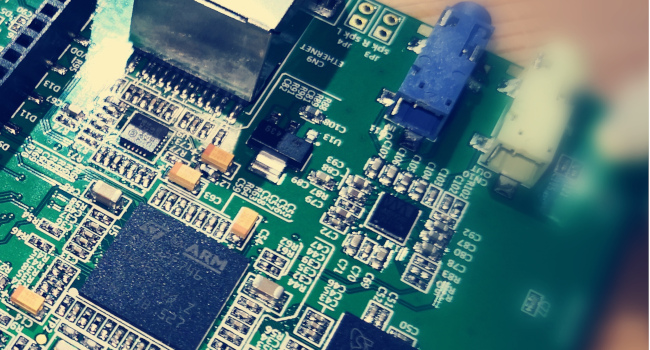
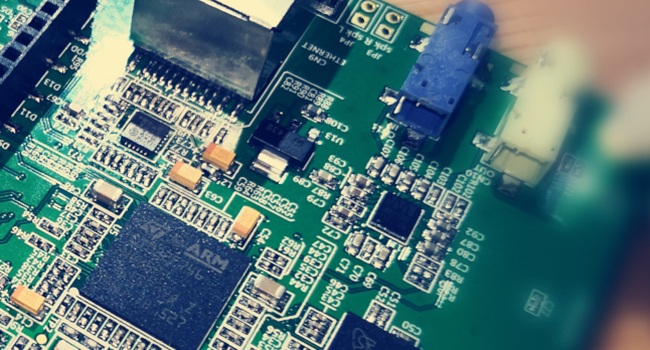
2026 update

diff --git a/index.html b/index.html
@@ -93,10 +93,8 @@
           <hr>
         </div>
         <div class="col-lg-8 mx-auto">
-          <p class="text-faded mb-5">What is it? Atrabit is the business name used by Maciej Skrzypczak for his various projects.
-             It's a sole proprietership focused on engineering consulting in embedded electronic world.
-				What does it mean?
-			The name Atrabit doesn't mean anything, it's a completely randomly generated name by connecting attraction and bits and most importantly wasn't already registered by anyone!
+          <p class="text-faded mb-5">Atrabit is the business name used by Maciej Skrzypczak for his various projects.
+             It's a sole proprietership focused on engineering consulting in embedded electronic world, helping companies in fast prototyping of new ideas.
           </p>
           <a class="btn btn-primary btn-xl js-scroll-trigger" href="#about">Find Out More</a>
         </div>
@@ -110,7 +108,8 @@
         <div class="col-lg-8 mx-auto text-center">
           <h2 class="section-heading text-white">We've got what you need!</h2>
           <hr class="light my-4">
-          <p class="text-faded mb-4">Atrabit provides electronic and mechanical designing services to its customers using leading industry CAD software tools. It offers strong competences in software solutions for embedded microcontrollers (STM32, Microchip/Atmel), experience in embedded Bluetooth and Wi-Fi solutions as well as project requirement management.</p>
+          <p class="text-faded mb-4">Atrabit provides electronic and mechanical designing and prptotyping services to its customers using leading industry CAD software tools. It offers strong competences in software solutions for embedded microcontrollers (STM32, Microchip/Atmel), experience in embedded Bluetooth and Wi-Fi solutions as well as project requirement management.</p>
+		  <p class="text-faded mb-4">If you need a fast tactile proove of your idea or a mockup for a demo for client, Atrabit will help you in the whole process from design to assembly, using 3D printing, metal and plastic machining as well as laser cutting, marking and engraving.</p>
           <a class="btn btn-light btn-xl js-scroll-trigger" href="#services">Get Started!</a>
         </div>
       </div>
@@ -122,7 +121,7 @@
       <div class="row">
         <div class="col-lg-12 text-center">
           <h2 class="section-heading">At Your Service</h2>
-          <h2 class="section-heading">We take care on every development satage</h2>
+          <h2 class="section-heading">We take care on every development stage</h2>
           <hr class="my-4">
         </div>
       </div>
@@ -166,8 +165,8 @@
           <div class="service-box mt-5 mx-auto">
             <i class="fas fa-4x fa-tools text-primary mb-3 sr-icon-4"></i>
             <h3 class="mb-3">Rapid Prototyping</h3>
-            <p class="text-muted mb-0">We support your prototyping needs with 3D printing, plastic and metal CNC milling, laser cutting,</p>
-			<p class="text-muted mb-0"> and engraving—delivering accurate mockups, Proof-of-Concepts, prototypes, or small production runs.</p>
+            <p class="text-muted mb-0">We support your prototyping needs with 3D printing, plastic and metal CNC milling,</p>
+			<p class="text-muted mb-0">laser marking and engraving—delivering accurate mockups, Proof-of-Concepts, prototypes, or small production runs.</p>
           </div>
         </div>
       </div>
@@ -201,7 +200,7 @@
                   Electronics testing
                 </div>
                 <div class="project-name">
-                  System bring up, evauation of normative requirements.
+                  System bring up, evaluation of normative requirements.
                 </div>
               </div>
             </div>
@@ -231,7 +230,7 @@
                   Mechanical design
                 </div>
                 <div class="project-name">
-                  Metal-sheet or plastic enclosure for your device
+                  Design of metal-sheet or plastic enclosure for your device.
                 </div>
               </div>
             </div>
@@ -253,20 +252,66 @@
           </a>
         </div>
         <div class="col-lg-4 col-sm-6">
-          <a class="portfolio-box" href="img/portfolio/fullsize/6.jpg">
-            <img class="img-fluid" src="img/portfolio/thumbnails/6.jpg" alt="Requirements management">
+          <a class="portfolio-box" href="img/portfolio/fullsize/laser_marking.jpg">
+            <img class="img-fluid" src="img/portfolio/thumbnails/marking_PN_on_aluminum.jpeg" alt="Laser marking and cutting">
             <div class="portfolio-box-caption">
               <div class="portfolio-box-caption-content">
                 <div class="project-category text-faded">
-                  Requirements management
+                  Laser marking and cutting
                 </div>
                 <div class="project-name">
-                  Project scope, functional and non-functional requirements defining.
+                  Permanent marking on metals like aluminum, stainless steal and copper, etc. Elegant way of product serialization and logo sticking on metal and plastic enclosures.
                 </div>
               </div>
             </div>
           </a>
         </div>
+		<div class="col-lg-4 col-sm-6">
+          <a class="portfolio-box" href="img/portfolio/fullsize/thermal_camera_debugging.jpg">
+            <img class="img-fluid" src="img/portfolio/thumbnails/thermal_camera_debugging.jpg" alt="Electronics repair and debugging">
+            <div class="portfolio-box-caption">
+              <div class="portfolio-box-caption-content">
+                <div class="project-category text-faded">
+                  Electronics repair and debugging
+                </div>
+                <div class="project-name">
+                  Help with electrical, functional tests and measurements of prototypes. Electronic devices debugging and repair with thermal imaging and professional tools.
+                </div>
+              </div>
+            </div>
+          </a>
+        </div>
+		<div class="col-lg-4 col-sm-6">
+          <a class="portfolio-box" href="img/portfolio/fullsize/metal_machining.jpg">
+            <img class="img-fluid" src="img/portfolio/thumbnails/aluminum_parts1.jpg" alt="Metal mechanical machining">
+            <div class="portfolio-box-caption">
+              <div class="portfolio-box-caption-content">
+                <div class="project-category text-faded">
+                  Metal mechanical machining
+                </div>
+                <div class="project-name">
+                  Machining your idea of enclosure or internal parts with CNC machine. Speed up delivery of new designede parts for prooves-of-concepts.
+                </div>
+              </div>
+            </div>
+          </a>
+        </div>		
+		<div class="col-lg-4 col-sm-6">
+          <a class="portfolio-box" href="img/portfolio/fullsize/plastic_machining.jpg">
+            <img class="img-fluid" src="img/portfolio/thumbnails/foam_mockup.jpg" alt="Plastics machining">
+            <div class="portfolio-box-caption">
+              <div class="portfolio-box-caption-content">
+                <div class="project-category text-faded">
+                  Plastics machining
+                </div>
+                <div class="project-name">
+                  We can help in small size production of foam inserts for your product, 3D print conceptual designs and fast cut your mockups for stand or evaluation by your client.
+                </div>
+              </div>
+            </div>
+          </a>
+        </div>		
+		
       </div>
     </div>
   </section>
@@ -297,7 +342,7 @@
   </section>
 
   <div class="text-center"> 
-    <p> &copy; 2025 Atrabit. </p>
+    <p> &copy; 2026 Atrabit. </p>
   </div>
 
   <!-- Bootstrap core JavaScript -->

diff --git a/pl_index.html b/pl_index.html
@@ -93,8 +93,8 @@
           <hr>
         </div>
         <div class="col-lg-8 mx-auto">
-          <p class="text-faded mb-5">Kim jesteśmy? Atrabit to firma stworzona przez Macieja Skrzypczaka na potrzeby różnych projektów.
-          To jednoosobowa działalność gospodarcza, specjalizująca się w doradztwie inżynieryjnym w dziedzinie elektroniki wbudowanej. Co to oznacza? Nazwa Atrabit nic nie znaczy, jest to nazwa wygenerowana całkowicie losowo, powstała w wyniku połączenia słów „attraction” i „bits”, a co najważniejsze, nie została wcześniej przez nikogo zarejestrowana!
+          <p class="text-faded mb-5">Atrabit to firma stworzona przez Macieja Skrzypczaka na potrzeby różnych projektów.
+          To jednoosobowa działalność gospodarcza, specjalizująca się w doradztwie inżynieryjnym w dziedzinie elektroniki wbudowanej a także pomocy w szybkim prototypowaniu pomysłów klienta.
           </p>
           <a class="btn btn-primary btn-xl js-scroll-trigger" href="#about">Dowiedz sie wiecej</a>
         </div>
@@ -109,7 +109,7 @@
           <h2 class="section-heading text-white">Mamy to czego potrzebujesz!</h2>
           <hr class="light my-4">
           <p class="text-faded mb-4">Atrabit oferuje swoim klientom usługi projektowania elektronicznego i mechanicznego, oraz wsparcia w szybkim prototypowaniu urządzeń, wykorzystując wiodące w branży narzędzia CAD. Firma oferuje bogate kompetencje w zakresie rozwiązań programowych dla mikrokontrolerów wbudowanych, technologii Bluetooth i Wi-Fi, a także w zarządzaniu wymaganiami projektowymi.</p>
-		  <p class="text-faded mb-4">Potrzebujesz szybko wykonać prototyp obudowy lub atrape na demonstracje, Atrabit pomoże w całym procesie od konstrukcji do wykonania wykorzystując druk 3D, obróbke detali metalowych CNC lub wycinanie i znakowanie laserowe.</p>
+		  <p class="text-faded mb-4">Potrzebujesz szybko wykonać prototyp obudowy lub atrape na demonstracje, Atrabit pomoże w całym procesie od konstrukcji do wykonania wykorzystując druk 3D, obróbke detali metalowych i plastikowych techniką CNC a także wycinanie i znakowanie laserowe.</p>
  <a class="btn btn-light btn-xl js-scroll-trigger" href="#services">Zaczynajmy!</a>
         </div>
       </div>
@@ -252,20 +252,66 @@
           </a>
         </div>
         <div class="col-lg-4 col-sm-6">
-          <a class="portfolio-box" href="img/portfolio/fullsize/6.jpg">
-            <img class="img-fluid" src="img/portfolio/thumbnails/6.jpg" alt="Zarządzanie wymaganiami">
+          <a class="portfolio-box" href="img/portfolio/fullsize/laser_marking.jpg">
+            <img class="img-fluid" src="img/portfolio/thumbnails/marking_PN_on_aluminum.jpeg" alt="Znakowanie i wycinanie laserowe">
             <div class="portfolio-box-caption">
               <div class="portfolio-box-caption-content">
                 <div class="project-category text-faded">
-                  Zarządzanie wymaganiami
+                  Znakowanie i wycinanie laserowe
                 </div>
                 <div class="project-name">
-                  Zakres projektu, zdefiniowanie wymagań funkcjonalnych i niefunkcjonalnych.
+                  Stałe i odporne znakowanie na metalach jak aluminium, stal nierdzewna, miedź itp. Elegancki sposób na oznakowanie numerów seryjnych, logo i innych elementów graficznych na metalowych lub plastikowych częściach produktu.
                 </div>
               </div>
             </div>
           </a>
         </div>
+		<div class="col-lg-4 col-sm-6">
+          <a class="portfolio-box" href="img/portfolio/fullsize/thermal_camera_debugging.jpg">
+            <img class="img-fluid" src="img/portfolio/thumbnails/thermal_camera_debugging.jpg" alt="Electronics repair and debugging">
+            <div class="portfolio-box-caption">
+              <div class="portfolio-box-caption-content">
+                <div class="project-category text-faded">
+                  Naprawa i testowanie urządzeń elektronicznych
+                </div>
+                <div class="project-name">
+                  Pomoc w testech elektronicznych, funkcjonalnych i pomiarach prototypów i urządzeń. Rozwiązywanie problemów elektronicznych i naprawa przy pomocy obrazowania termicznego i profesjonalnych przyrządów pomiarowych.
+                </div>
+              </div>
+            </div>
+          </a>
+        </div>
+		<div class="col-lg-4 col-sm-6">
+          <a class="portfolio-box" href="img/portfolio/fullsize/metal_machining.jpg">
+            <img class="img-fluid" src="img/portfolio/thumbnails/aluminum_parts1.jpg" alt="Obróbka mechaniczna detali metalowych">
+            <div class="portfolio-box-caption">
+              <div class="portfolio-box-caption-content">
+                <div class="project-category text-faded">
+                  Obróbka mechaniczna detali metalowych
+                </div>
+                <div class="project-name">
+                  Przekształcimy lub zmodyfikujemy twój pomysł obudowy lub nowej części urządzenia przy pomocy obróbki CNC. Szybko dostarczymy nowo zaprojektowane części do budowy prototypów.
+                </div>
+              </div>
+            </div>
+          </a>
+        </div>		
+		<div class="col-lg-4 col-sm-6">
+          <a class="portfolio-box" href="img/portfolio/fullsize/plastic_machining.jpg">
+            <img class="img-fluid" src="img/portfolio/thumbnails/foam_mockup.jpg" alt="Obróbka tworzyw sztucznych">
+            <div class="portfolio-box-caption">
+              <div class="portfolio-box-caption-content">
+                <div class="project-category text-faded">
+                  Obróbka tworzyw sztucznych
+                </div>
+                <div class="project-name">
+                  Pomoc w produkcji lub modyfikacji obudów plastikowych, wkładek piankowych do walizek transportowych, wydruku 3D koncepcji bądź wycinaniu atrap z twardej pianki na potrzeby wystaw lub oceny przez klienta.
+                </div>
+              </div>
+            </div>
+          </a>
+        </div>		
+		
       </div>
     </div>
   </section>
@@ -277,7 +323,7 @@
           <hr class="my-4">
           <p class="mb-5">Gotowy, aby rozpocząć z nami swój kolejny projekt? Świetnie! Zadzwoń do nas lub wyślij e-mail, a skontaktujemy się z Tobą najszybciej, jak to możliwe!</p>
           <p class="mb-5">Dane firmy: <br> REGON: 366734649 || PL VAT: 6981568937 || DUNS&reg: 438210992.</p> 
-          <p> Adres firmy: <a href="https://maps.app.goo.gl/SDaZ24XpsocC6bqW8"> Nowy Kisielin Sosnowa 24, 66-002 Zielona Gora, Poland</a></p>
+          <p> Adres firmy: <a href="https://maps.app.goo.gl/SDaZ24XpsocC6bqW8"> Nowy Kisielin-Sosnowa 24, 66-002 Zielona Góra, Poland</a></p>
         </div>
       </div>
       <div class="row">
@@ -296,7 +342,7 @@
   </section>
 
   <div class="text-center"> 
-    <p> &copy; 2025 Atrabit. </p>
+    <p> &copy; 2026 Atrabit. </p>
   </div>
 
   <!-- Bootstrap core JavaScript -->
